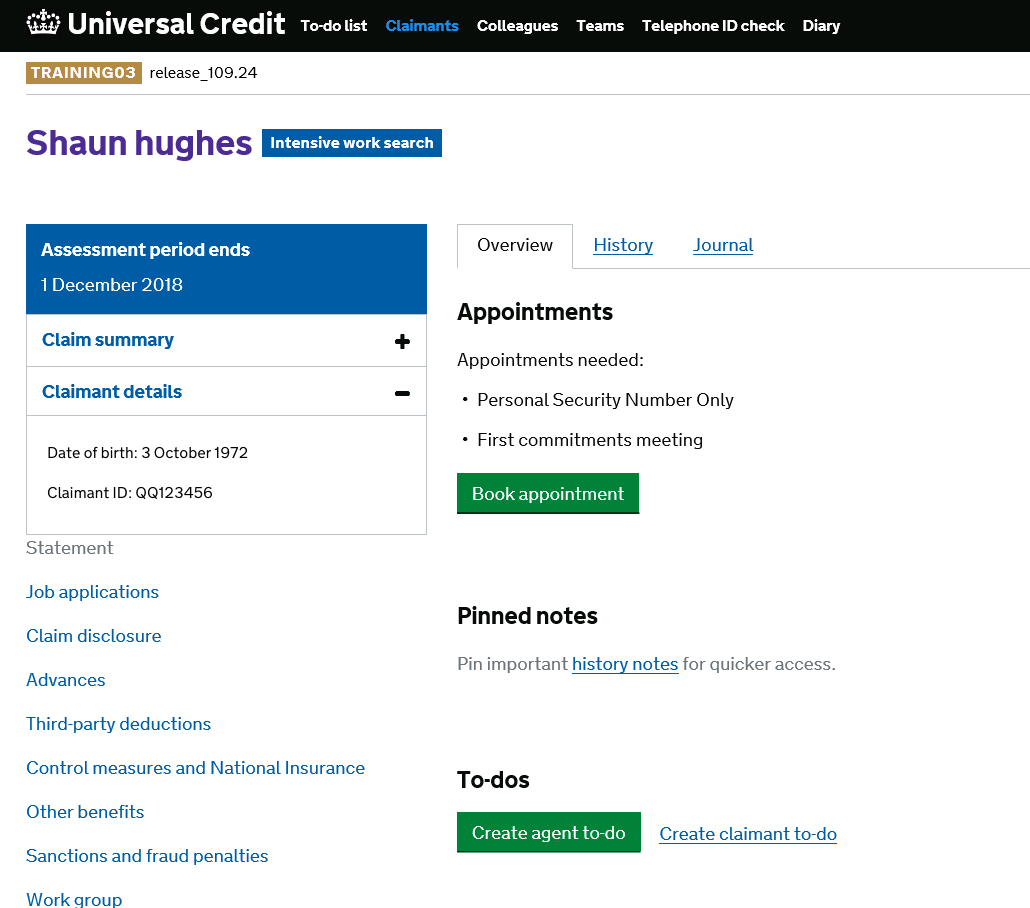
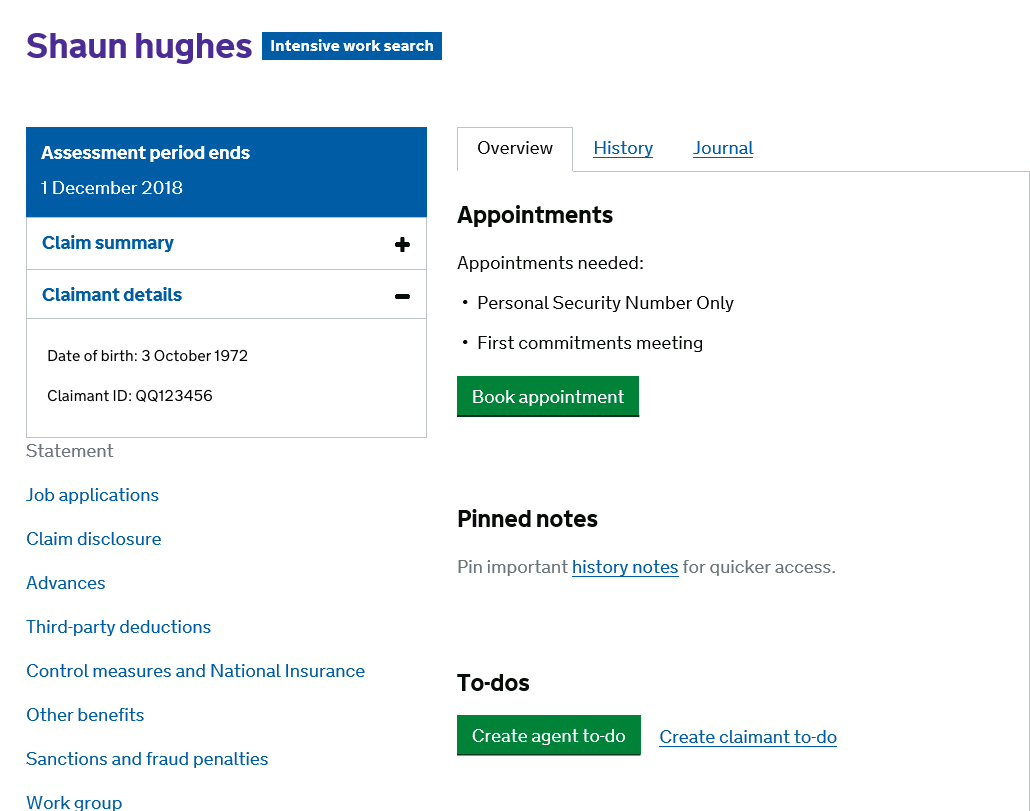
UCFS screen

diff --git a/app/views/UCFS-grab.html b/app/views/UCFS-grab.html
@@ -1,6 +1,7 @@
 
-<div align="center" style="background-color:white;color:black;">
+<div align="center" style="background-color:white;color:black;padding-top:0px;">
   <div>
+    <img src="../public/images/UCFS-header.png" width="100%">
       <img src="../public/images/UCFS-screen.png" height="100%">
   </div>
 </div>
